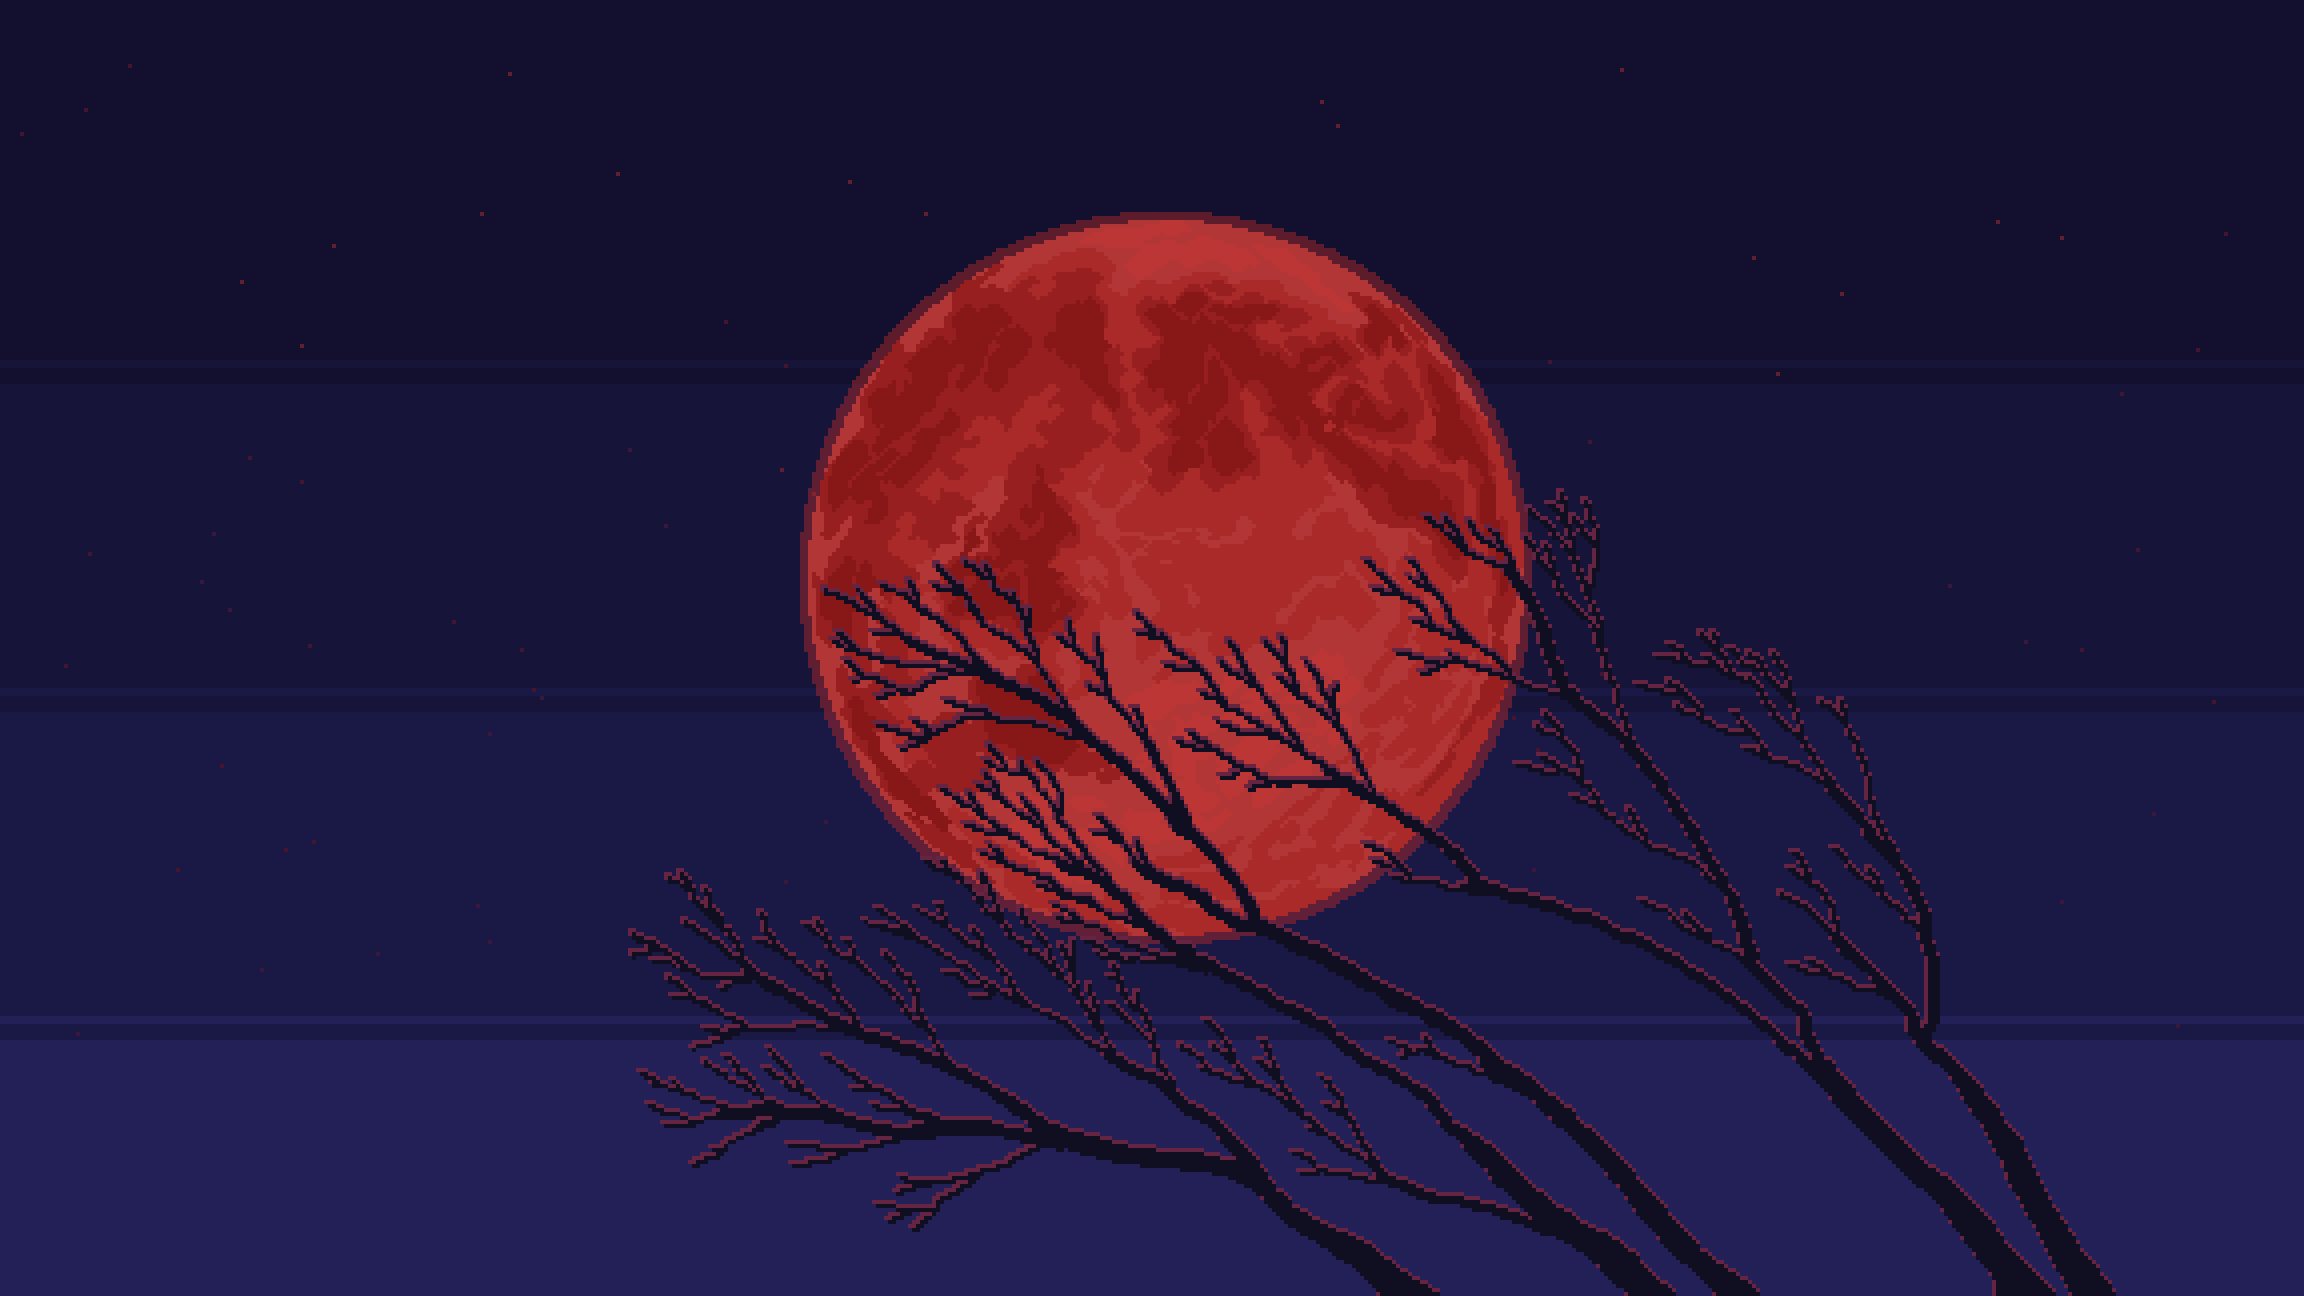
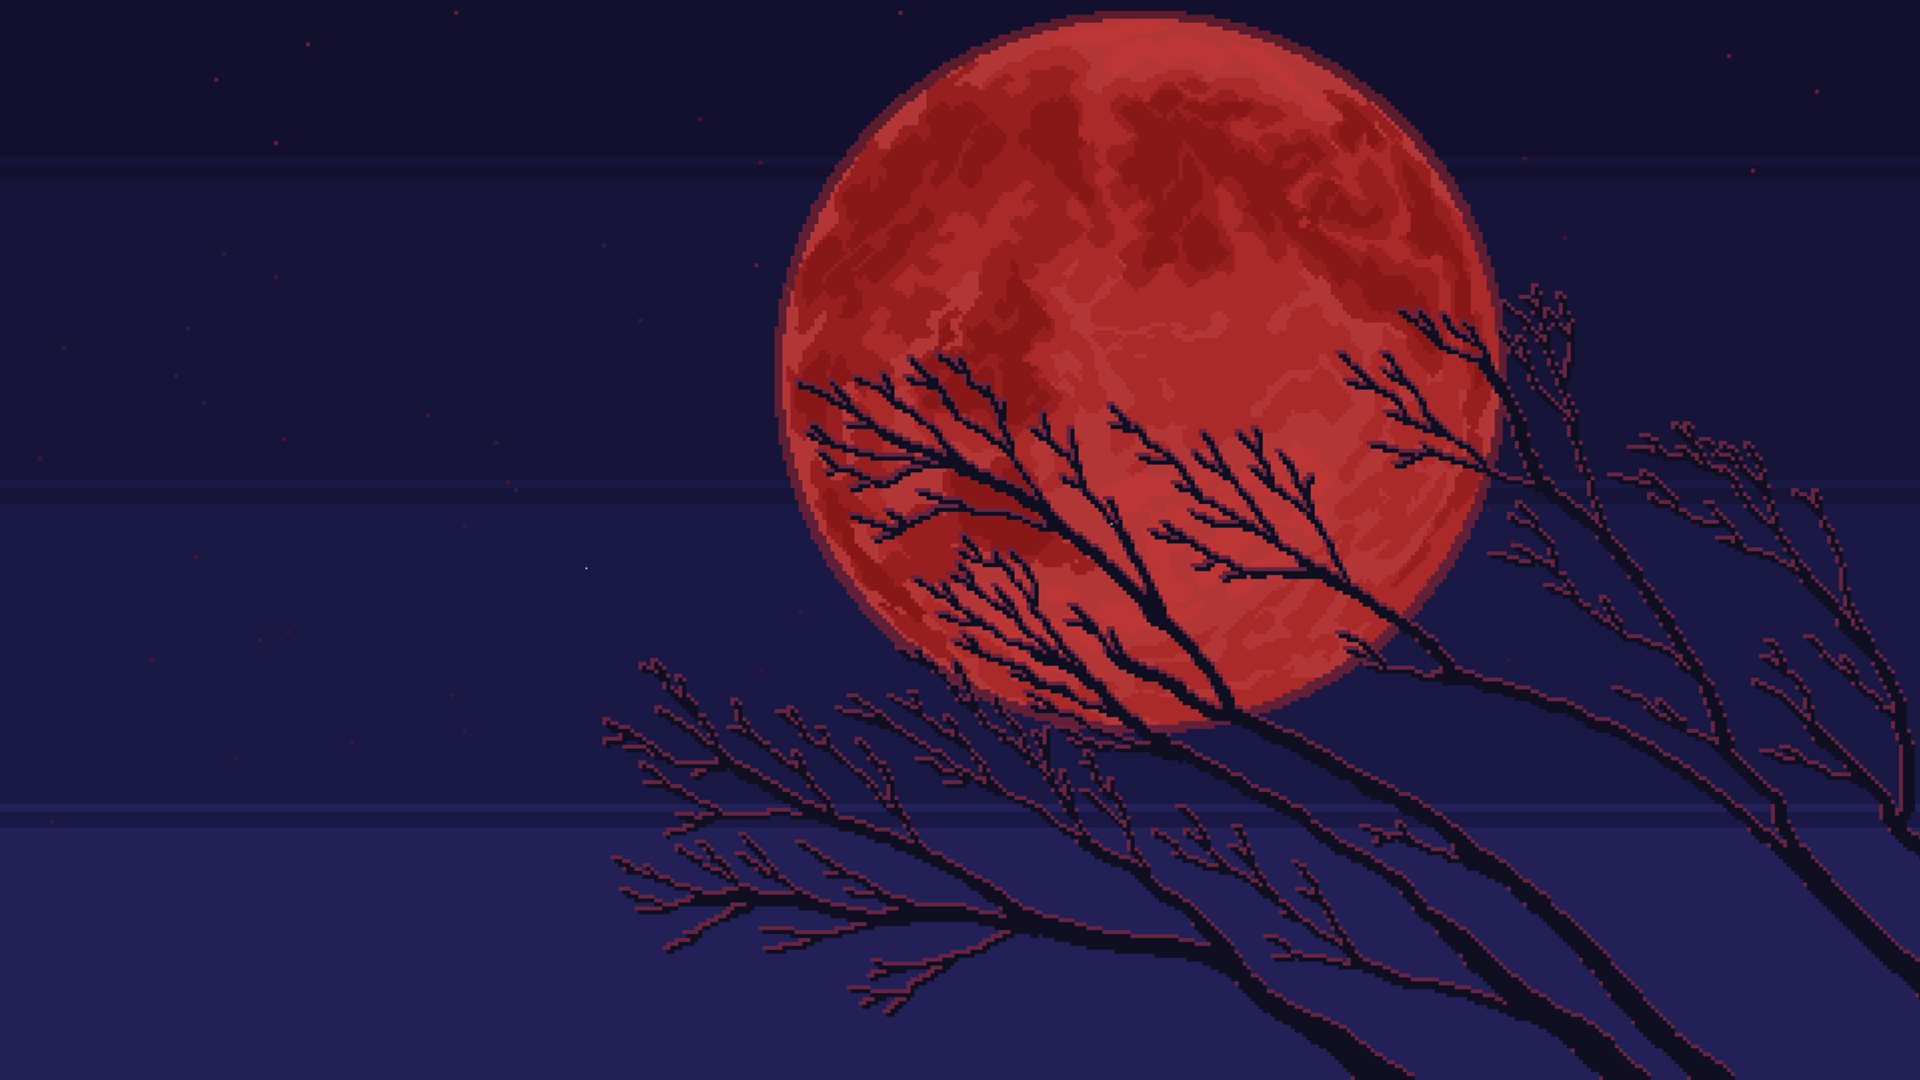
Creating menu interactions Creating ABC class Creating Factory Level 1 Bg implementation: parallax

Changed region(s): [[0.2812, 0.0, 1.0, 1.0], [0.9688, 0.8556, 1.0, 0.9167], [0.6562, 0.7333, 0.6875, 0.7639]]

diff --git a/code/Menu.py b/code/Menu.py
@@ -4,7 +4,7 @@ import pygame.image
 from pygame import Surface, Rect
 from pygame.font import Font
 
-from code.Const import WIN_WIDTH, COLOR_SILVER, MENU_OPTION, COLOR_WHITE, COLOR_BLACK, COLOR_RED
+from code.Const import WIN_WIDTH, COLOR_SILVER, MENU_OPTION, COLOR_WHITE, COLOR_BLACK, COLOR_RED, COLOR_YELLOW
 
 
 class Menu:
@@ -14,15 +14,19 @@ class Menu:
         self.rect = self.surf.get_rect(left=0, top=0)
 
     def run(self, ):
+        menu_option = 0
         pygame.mixer_music.load('./asset/Menu.mp3')
         pygame.mixer_music.play(-1)
         while True:
+            # DRAW IMAGES
             self.window.blit(source=self.surf, dest=self.rect)
-            self.menu_text(130, "Eclipse of The Soul", COLOR_WHITE, ((WIN_WIDTH / 5.2), 335))
+            self.menu_text(100, "Eclipse of The Soul", COLOR_SILVER, ((WIN_WIDTH / 5.2), 335))
 
             for i in range(len(MENU_OPTION)):
-                self.menu_text(80, MENU_OPTION[i], COLOR_RED, ((WIN_WIDTH / 5.38), 650 + 220 * i))
-
+                if i == menu_option:
+                    self.menu_text(70, MENU_OPTION[i], COLOR_YELLOW, ((WIN_WIDTH / 5.38), 570 + 150 * i))
+                else:
+                    self.menu_text(70, MENU_OPTION[i], COLOR_RED, ((WIN_WIDTH / 5.38), 570 + 150 * i))
             pygame.display.flip()
 
             # Check for all events
@@ -30,6 +34,21 @@ class Menu:
              if event.type == pygame.QUIT:
               pygame.quit()  # Close Window
               quit()  # end pygame
+             if event.type == pygame.KEYDOWN:
+                 if event.key == pygame.K_DOWN: #DOWN KEY
+                     if menu_option < len(MENU_OPTION) -1:
+                         menu_option +=1
+                     else:
+                         menu_option = 0
+                 if event.key == pygame.K_UP: #UP KEY
+                     if menu_option > 0:
+                         menu_option -= 1
+                     else:
+                         menu_option = len(MENU_OPTION) -1
+                 if event.key == pygame.K_RETURN:  # ENTER
+                     return MENU_OPTION[menu_option]
+
+
 
     def menu_text(self, text_size: int, text: str, text_color: tuple, text_center_pos: tuple):
         text_font: Font = pygame.font.SysFont(name="Bloodstone Italic", size=text_size)

diff --git a/code/Game.py b/code/Game.py
@@ -2,8 +2,9 @@
 # -*- coding: utf-8 -*-
 import pygame
 
-from code.Const import WIN_WIDTH, WIN_HEIGHT
+from code.Const import WIN_WIDTH, WIN_HEIGHT, MENU_OPTION
 from code.Menu import Menu
+from code.Level import Level
 
 
 class Game:
@@ -14,6 +15,16 @@ class Game:
     def run(self):
         while True:
             menu = Menu(self.window)
-            menu.run()
-            pass
+            menu_return = menu.run()
+
+
+            if menu_return in [MENU_OPTION[0], MENU_OPTION[1]]:
+                level = Level(self.window, 'Level1', menu_return)
+                level_return = level.run()
+            elif menu_return == MENU_OPTION[3]:
+                pygame.quit()  # Close Window
+                quit()  # end pygame
+            else:
+                pass
+
 

diff --git a/code/Level.py b/code/Level.py
@@ -1,0 +1,22 @@
+#!/usr/bin/python
+# -*- coding: utf-8 -*-
+import pygame
+
+from code.Entity import Entity
+from code.EntityFactory import EntityFactory
+
+
+class Level:
+    def __init__(self, window, name, game_mode):
+        self.window = window
+        self.name = name
+        self.game_mode = game_mode
+        self.entity_list: list[Entity] = []
+        self.entity_list.extend(EntityFactory.get_entity('Level1Bg'))
+
+    def run(self):
+        while True:
+            for ent in self.entity_list:
+                self.window.blit(source=ent.surf, dest=ent.rect)
+                ent.move()
+            pygame.display.flip()

diff --git a/code/Const.py b/code/Const.py
@@ -3,14 +3,26 @@ COLOR_SILVER = (171, 167, 76)
 COLOR_WHITE = (255, 255, 255)
 COLOR_BLACK = (0, 0, 0)
 COLOR_RED = (235, 51, 36)
+COLOR_YELLOW = (235, 253, 85)
+
+# E
+ENTITY_SPEED = {
+    'Level1Bg0' : 0,
+    'Level1Bg1' : 1,
+    'Level1Bg2' : 2,
+    'Level1Bg3' : 3,
+    'Level1Bg4' : 4,
+    'Level1Bg5' : 5,
+}
 
 # M
-MENU_OPTION = ('NEW GAME (1 PLAYER)',
+MENU_OPTION = ('NEW GAME',
+               'COOP',
                'SCORE',
                'EXIT')
 
 #  W
-WIN_WIDTH = 2304
-WIN_HEIGHT = 1296
+WIN_WIDTH = 1920
+WIN_HEIGHT = 1080
 
 

diff --git a/code/EntityFactory.py b/code/EntityFactory.py
@@ -1,0 +1,19 @@
+#!/usr/bin/python
+# -*- coding: utf-8 -*-
+from code.Background import Background
+from code.Const import WIN_WIDTH
+
+
+class EntityFactory:
+
+    @staticmethod
+    def get_entity(entity_name: str, position=(0,0)):
+        match entity_name:
+            case 'Level1Bg':
+                list_bg = []
+                for i in range(6):
+                    list_bg.append(Background(f'Level1Bg{i}', (0, 0)))
+                    list_bg.append(Background(f'Level1Bg{i}', (WIN_WIDTH, 0)))
+                return list_bg
+
+

diff --git a/code/Entity.py b/code/Entity.py
@@ -1,0 +1,17 @@
+#!/usr/bin/python
+# -*- coding: utf-8 -*-
+from abc import ABC, abstractmethod
+
+import pygame
+
+
+class Entity(ABC):
+    def __init__(self, name: str, position: tuple):
+        self.name = name
+        self.surf = pygame.image.load('./asset/' + name + '.png')
+        self.rect = self.surf.get_rect(left=position[0], top=position[1])
+        self.speed = 0
+
+    @abstractmethod
+    def move(self, ):
+        pass

diff --git a/code/Background.py b/code/Background.py
@@ -1,0 +1,15 @@
+#!/usr/bin/python
+# -*- coding: utf-8 -*-
+from code.Const import WIN_WIDTH, ENTITY_SPEED
+from code.Entity import Entity
+
+
+class Background(Entity):
+    def __init__(self, name: str, position: tuple):
+        super().__init__(name, position)
+
+    def move(self, ):
+        self.rect.centerx -= ENTITY_SPEED[self.name]
+        if self.rect.right <=0:
+            self.rect.left = WIN_WIDTH
+
